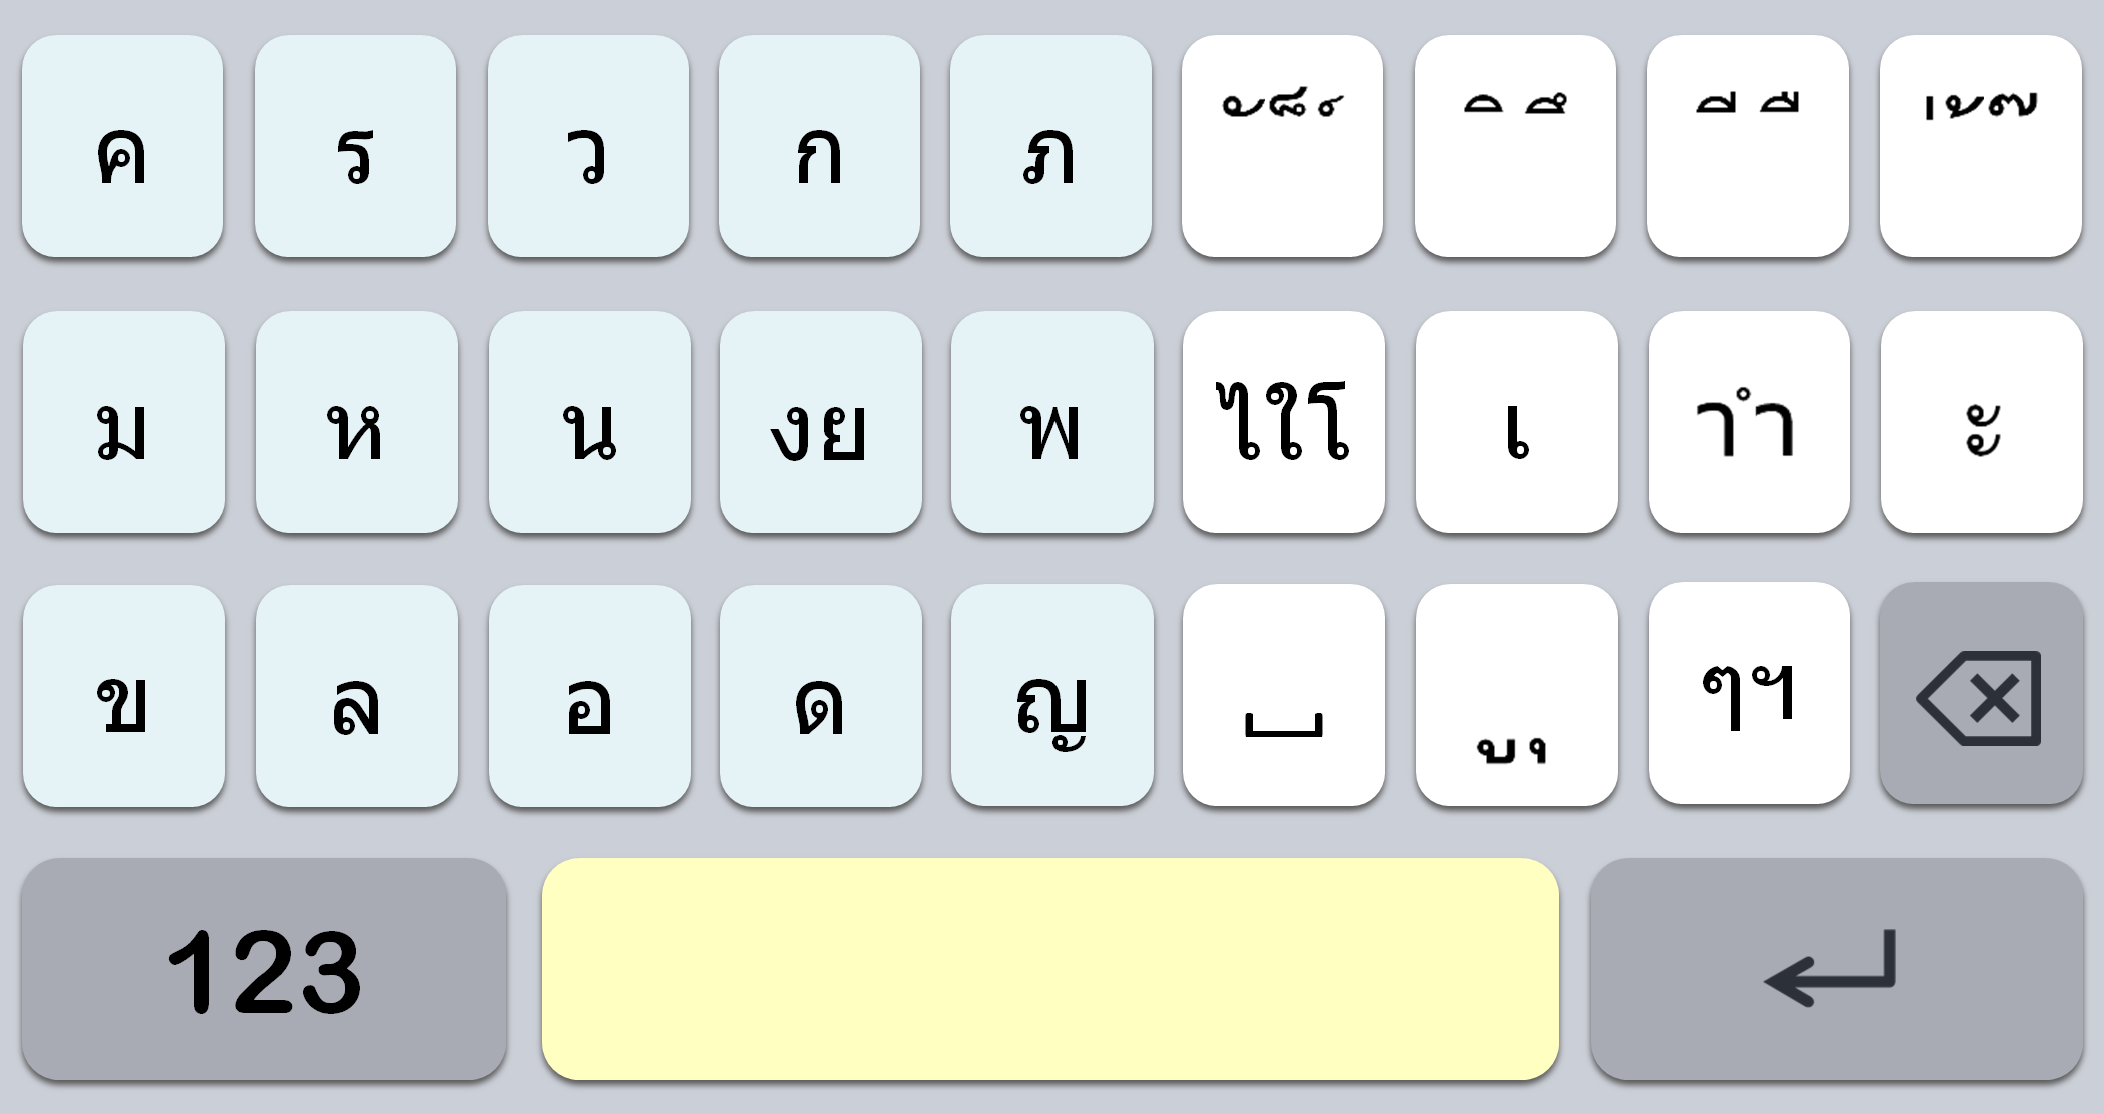
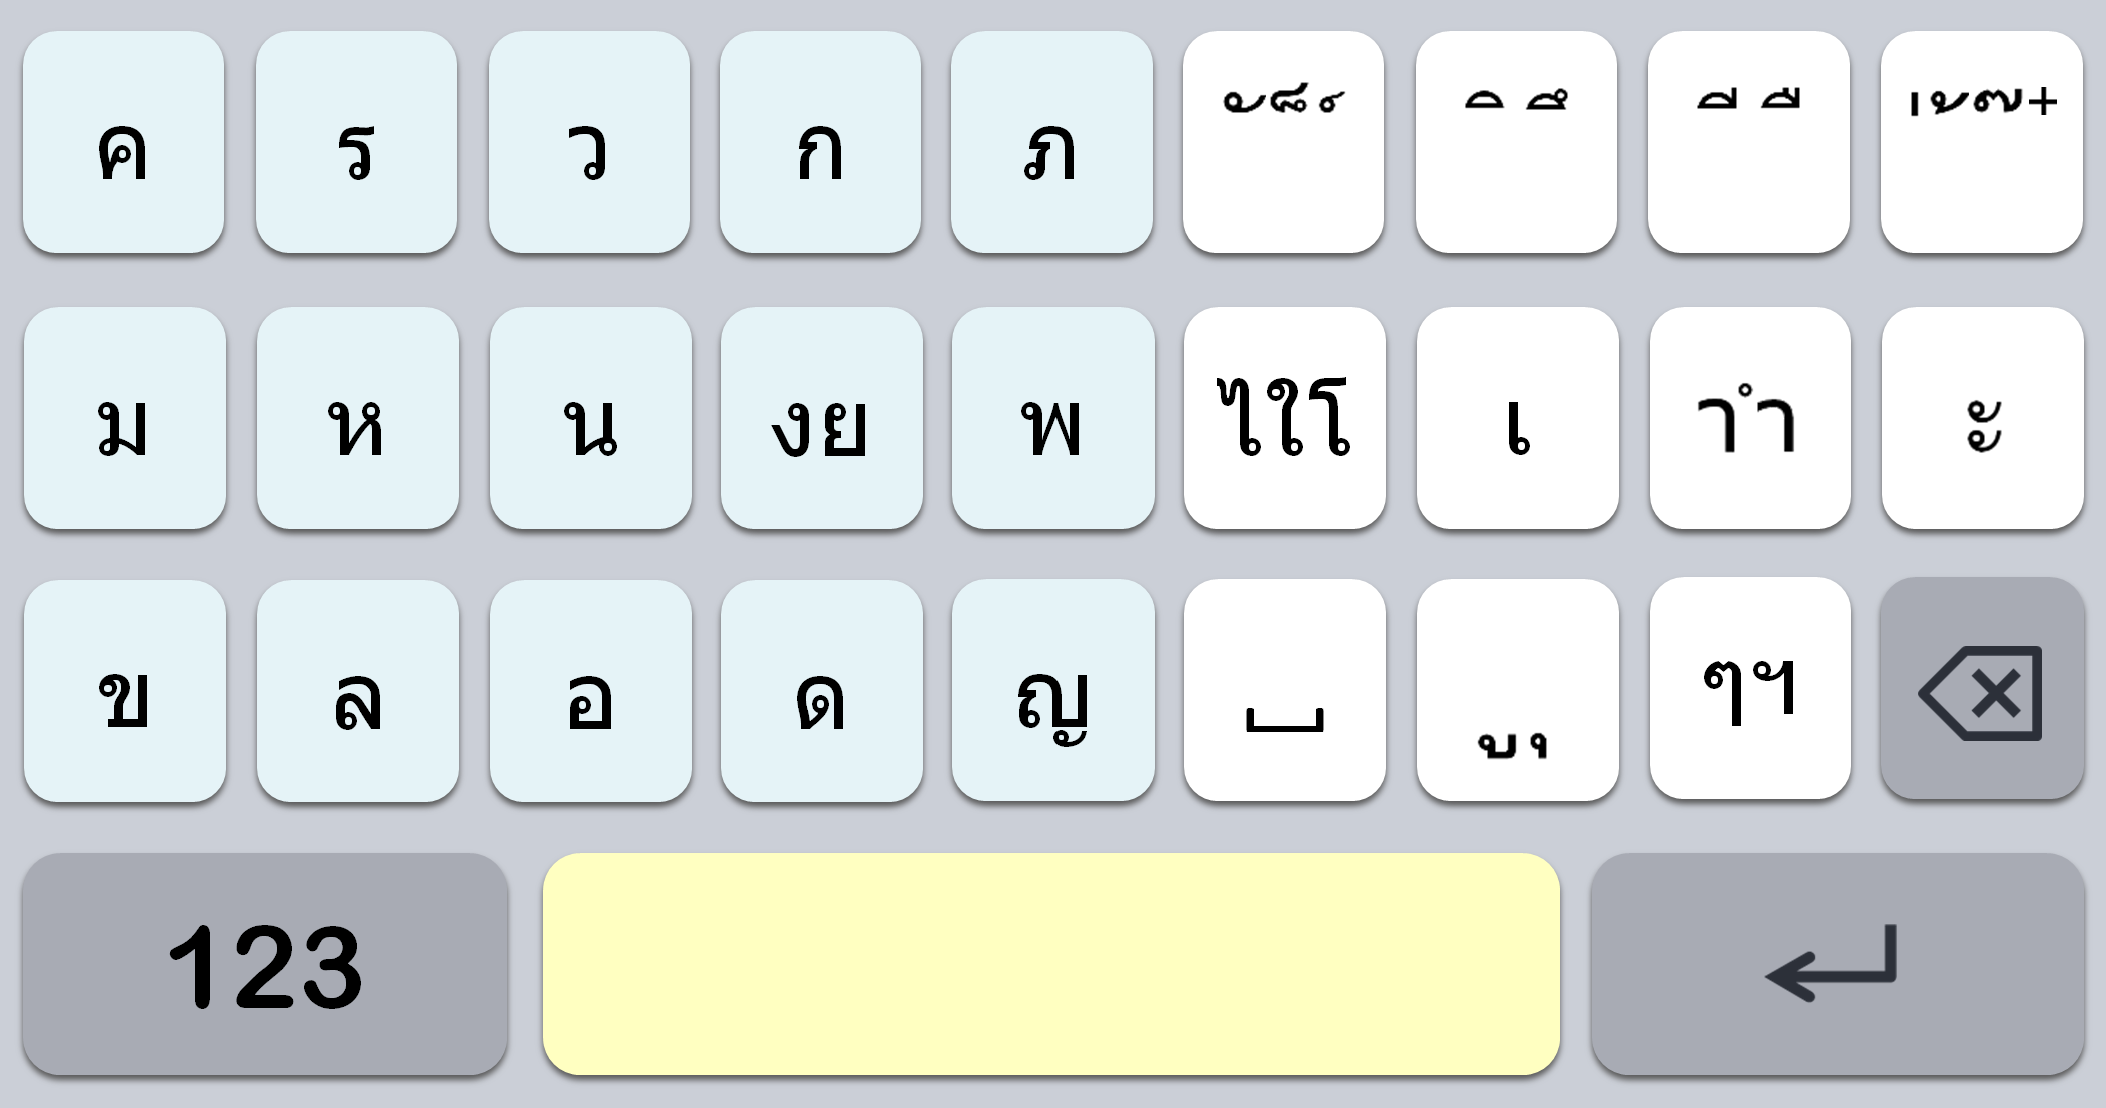
Add files via upload

diff --git a/mobile_demo.html b/mobile_demo.html
@@ -125,7 +125,7 @@ function renderKeys() {
   overlay.innerHTML = '';
   
   const layout = [
-    ['ค','ร','ว','ก','ภ', ['ั','็','์'], ['ิ','ึ'], ['ี','ื'], ['่','้','๊']],
+    ['ค','ร','ว','ก','ภ', ['ั','็','์'], ['ิ','ึ'], ['ี','ื'], ['่','้','๊','๋']],
 	['ม','ห','น','ง','พ', ['ไ','ใ','โ'], ['เ','แ'], ['า','ำ'], 'ะ'],
 	['ข','ล','อ','ด','ญ', 'SPACE_STAR', ['ู','ุ'], ['ๆ','ฯ'], 'BS']
   ];
